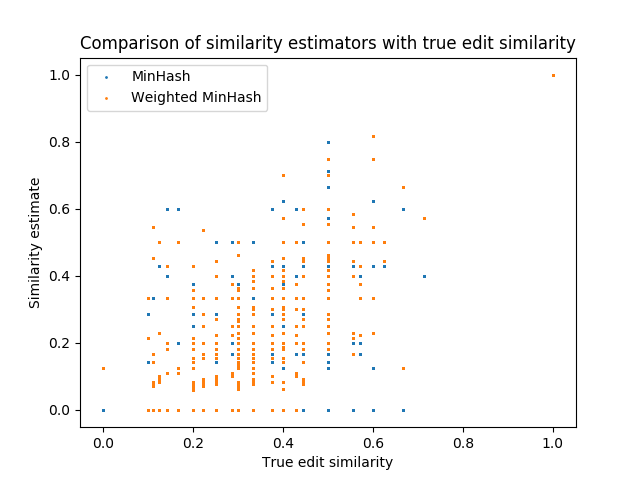
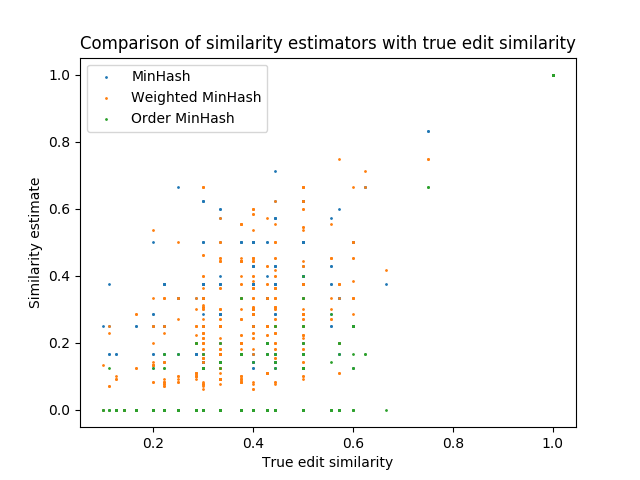
tree similarity score

diff --git a/minhash.py b/minhash.py
@@ -25,58 +25,35 @@ def nsmallest_no_duplicates(n, iterable, count=False, order=False):
     if count:
         return [(val, keys[k]) for k, val, i in heap]
     elif order:
-        return [(val, i) for k, val, i in heap]
+        return [((val, keys[k]), i) for k, val, i in heap]
     else:
         return [val for _, val, i in heap]
 
-#def nsmallest_no_duplicates(n, iterable, count=False):
-#    """ Compute the n smallest elements WITHOUT counting duplicates 
-#        Optional: count the number of occurrences of the n smallest elements
-#    """
-#    keys = Counter()
-#    heap = []
-#    for i, v in enumerate(iterable):
-#        key = -v[0] if isinstance(v, tuple) else -v
-#        value = v[1] if isinstance(v, tuple) else v
-#        if len(heap) < n:
-#            if key not in keys:
-#                heapq.heappush(heap, (key, value))
-#            keys[key] += 1
-#        else:
-#            if heap[0][0] <= key:
-#                if key not in keys:
-#                    del keys[(heap[0])]
-#                    heapq.heapreplace(heap, (key, value))
-#                keys[key] += 1
-#    if count:
-#        return [(val, keys[k]) for k, val in heap]
-#    else:
-#        return [val for _, val in heap]
-
 def minhash(stream, elems):
     """ Compute the minhash signature for a generator of strings """
-    m = np.ones(elems, dtype=np.int64) * np.iinfo(np.int64).max
     topk = nsmallest_no_duplicates(elems, (hash(kmer) for kmer in tqdm(stream)))
     return np.array(topk)
 
 def weighted_minhash(stream, elems):
     """ Compute the weighted minhash signature for a generator of strings """
-    m = np.ones(elems, dtype=np.int64) * np.iinfo(np.int64).max
     topk = nsmallest_no_duplicates(elems, (hash(kmer) for kmer in tqdm(stream)), count=True)
     return np.array(topk)
 
 def order_minhash(stream, l):
     """ Compute the order minhash signature of a stream of kmers """
     """ See https://github.com/Kingsford-Group/omhismb2019/blob/master/omh_compute/omh.hpp for more details """
-    m = np.ones(l, dtype=np.int64) * np.iinfo(np.int64).max
     topl = nsmallest_no_duplicates(l, (hash(kmer) for kmer in tqdm(stream)), order=True)
     # Sort topl by kmer position
-    return np.array([_ for _, h in sorted(topl, key=lambda x: x[1])])
+    return np.array([tup for tup, h in sorted(topl, key=lambda x: x[1])])
 
 def hamming_similarity(s1, s2):
     """ Compute the hamming similarity between two signatures """
-    assert s1.shape == s2.shape
-    return sum(s1 == s2) / s1.shape[0]
+    count = 0
+    for i in range(min(len(s1), len(s2))):
+        if (s1[i] == s2[i]).all():
+            count += 1
+
+    return count / max(len(s1), len(s2))
 
 def string_to_kmers(s, k):
     """" Get the kmer generator from a string """

diff --git a/plot_similarity_graph.py b/plot_similarity_graph.py
@@ -29,9 +29,9 @@ def get_weighted_minhash_res(g1, g2):
 
 def get_order_minhash_res(g1, g2):
 	'''get the edit distance for every genome parit in synthetic data'''
-	return weighted_jaccard_hash(weighted_minhash(string_to_kmers(g1, KMER_LENGTH), SKETCH_SIZE), weighted_minhash(string_to_kmers(g2, KMER_LENGTH), SKETCH_SIZE))
+	return hamming_similarity(order_minhash(string_to_kmers(g1, KMER_LENGTH), SKETCH_SIZE), order_minhash(string_to_kmers(g2, KMER_LENGTH), SKETCH_SIZE))
 
-N = 1000
+N = 100
 genome = gen_string_universe(5, 10, 5)
 
 edit_dis_list = []
@@ -45,12 +45,12 @@ for _ in tqdm(range(5*N)):
 	edit_dis_list.append(get_edit_distance_res(g1, g2))
 	minhash_list.append(get_minhash_res(g1, g2))
 	weighted_minhash_list.append(get_weighted_minhash_res(g1, g2))
-	# order_minhash_list.append(get_weighted_minhash_res(g1, g2))
+	order_minhash_list.append(get_order_minhash_res(g1, g2))
 
 
 plt.scatter(edit_dis_list, minhash_list, s=1)
 plt.scatter(edit_dis_list, weighted_minhash_list, s=1)
-# plt.scatter(edit_dis_list, order_minhash_list, s=1)
+plt.scatter(edit_dis_list, order_minhash_list, s=1)
 plt.title('Comparison of similarity estimators with true edit similarity')
 plt.legend(['MinHash', 'Weighted MinHash', 'Order MinHash'])
 plt.ylabel('Similarity estimate')

diff --git a/tree_similarity.py b/tree_similarity.py
@@ -1,0 +1,12 @@
+def tree_similarity(ground_truth, t):
+    """ Compute the similarity score between a ground truth tree and a given tree (where we use the output of Kruskal)"""
+
+    gt_pairs = set((k, v) for k, x in ground_truth.items() for v, _ in x.items())
+    t_pairs = set((k, v) for k, x in t.items() for v, _ in x.items())
+    print(gt_pairs)
+    print(t_pairs)
+    c = 0
+    for edge in t_pairs:
+        if edge in gt_pairs:
+            c += 1
+    return c / len(gt_pairs)

diff --git a/synthetic_data.py b/synthetic_data.py
@@ -3,6 +3,7 @@ from random import seed
 from random import randint
 import networkx as nx
 import matplotlib.pyplot as plt
+plt.switch_backend('agg')
 
 
 
@@ -70,4 +71,4 @@ nx.draw_networkx_nodes(G, pos, cmap=plt.get_cmap('jet'),node_size = 500)
 nx.draw_networkx_labels(G, pos)
 nx.draw_networkx_edges(G, pos, edgelist=G.edges(), edge_color='b', arrows=True)
 # nx.draw_networkx_edges(G, pos, edgelist=black_edges, arrows=True)
-plt.show()
+plt.savefig('synthetic_tree.png')

diff --git a/test_tree_similarity.py b/test_tree_similarity.py
@@ -1,0 +1,6 @@
+from tree_similarity import tree_similarity
+
+def test_tree_similarity():
+    gt = {'a' : {'b' : 0.1}, 'c' : {'d' : 0.2, 'e' : 0.3}}
+    t = {'a' : {'b' : 0.2}, 'c' : {'d' : 0.4, 'f' : 0.3}}
+    assert abs(tree_similarity(gt, t) - 2/3) < 1e-4
